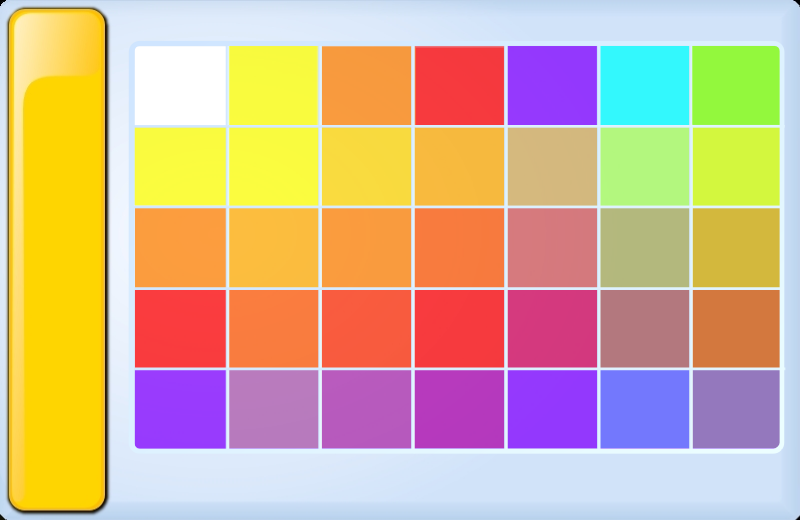
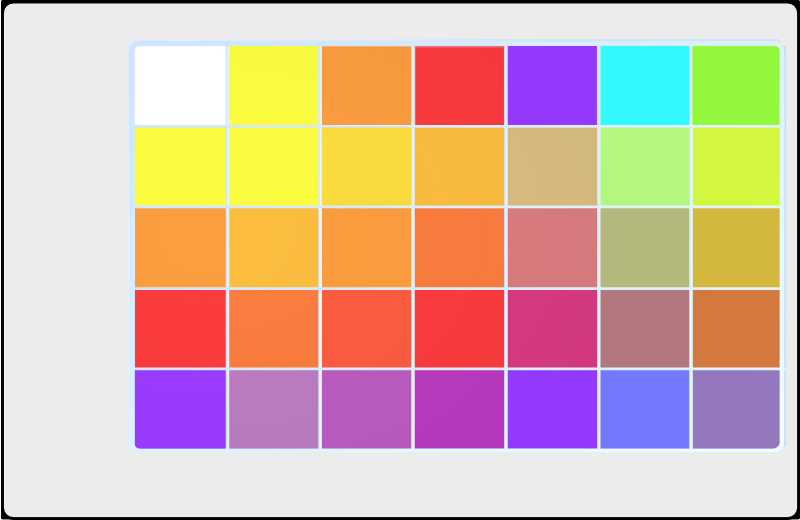
The selector is smaller now to avoid the left/right buttons being in the bar.

Changed region(s): [[0.0, 0.0, 1.0, 1.0]]

diff --git a/src/babymatch-activity/shapegame.c b/src/babymatch-activity/shapegame.c
@@ -619,7 +619,7 @@ add_shape_to_list_of_shapes(Shape *shape)
 			      NULL);
       SET_ITEM_LOCATION(previous_shapelist_item,
 			shapeBox.x - 5,
-			shapeBox.y + shapeBox.h);
+			shapeBox.h);
 
       g_signal_connect(previous_shapelist_item,
 		       "button_press_event",
@@ -635,7 +635,7 @@ add_shape_to_list_of_shapes(Shape *shape)
 
       SET_ITEM_LOCATION(next_shapelist_item,
 			shapeBox.x + shapeBox.w / 2,
-			shapeBox.y + shapeBox.h);
+			shapeBox.h);
 
       g_signal_connect(next_shapelist_item, "button_press_event",
 		       (GtkSignalFunc) item_event_ok,
